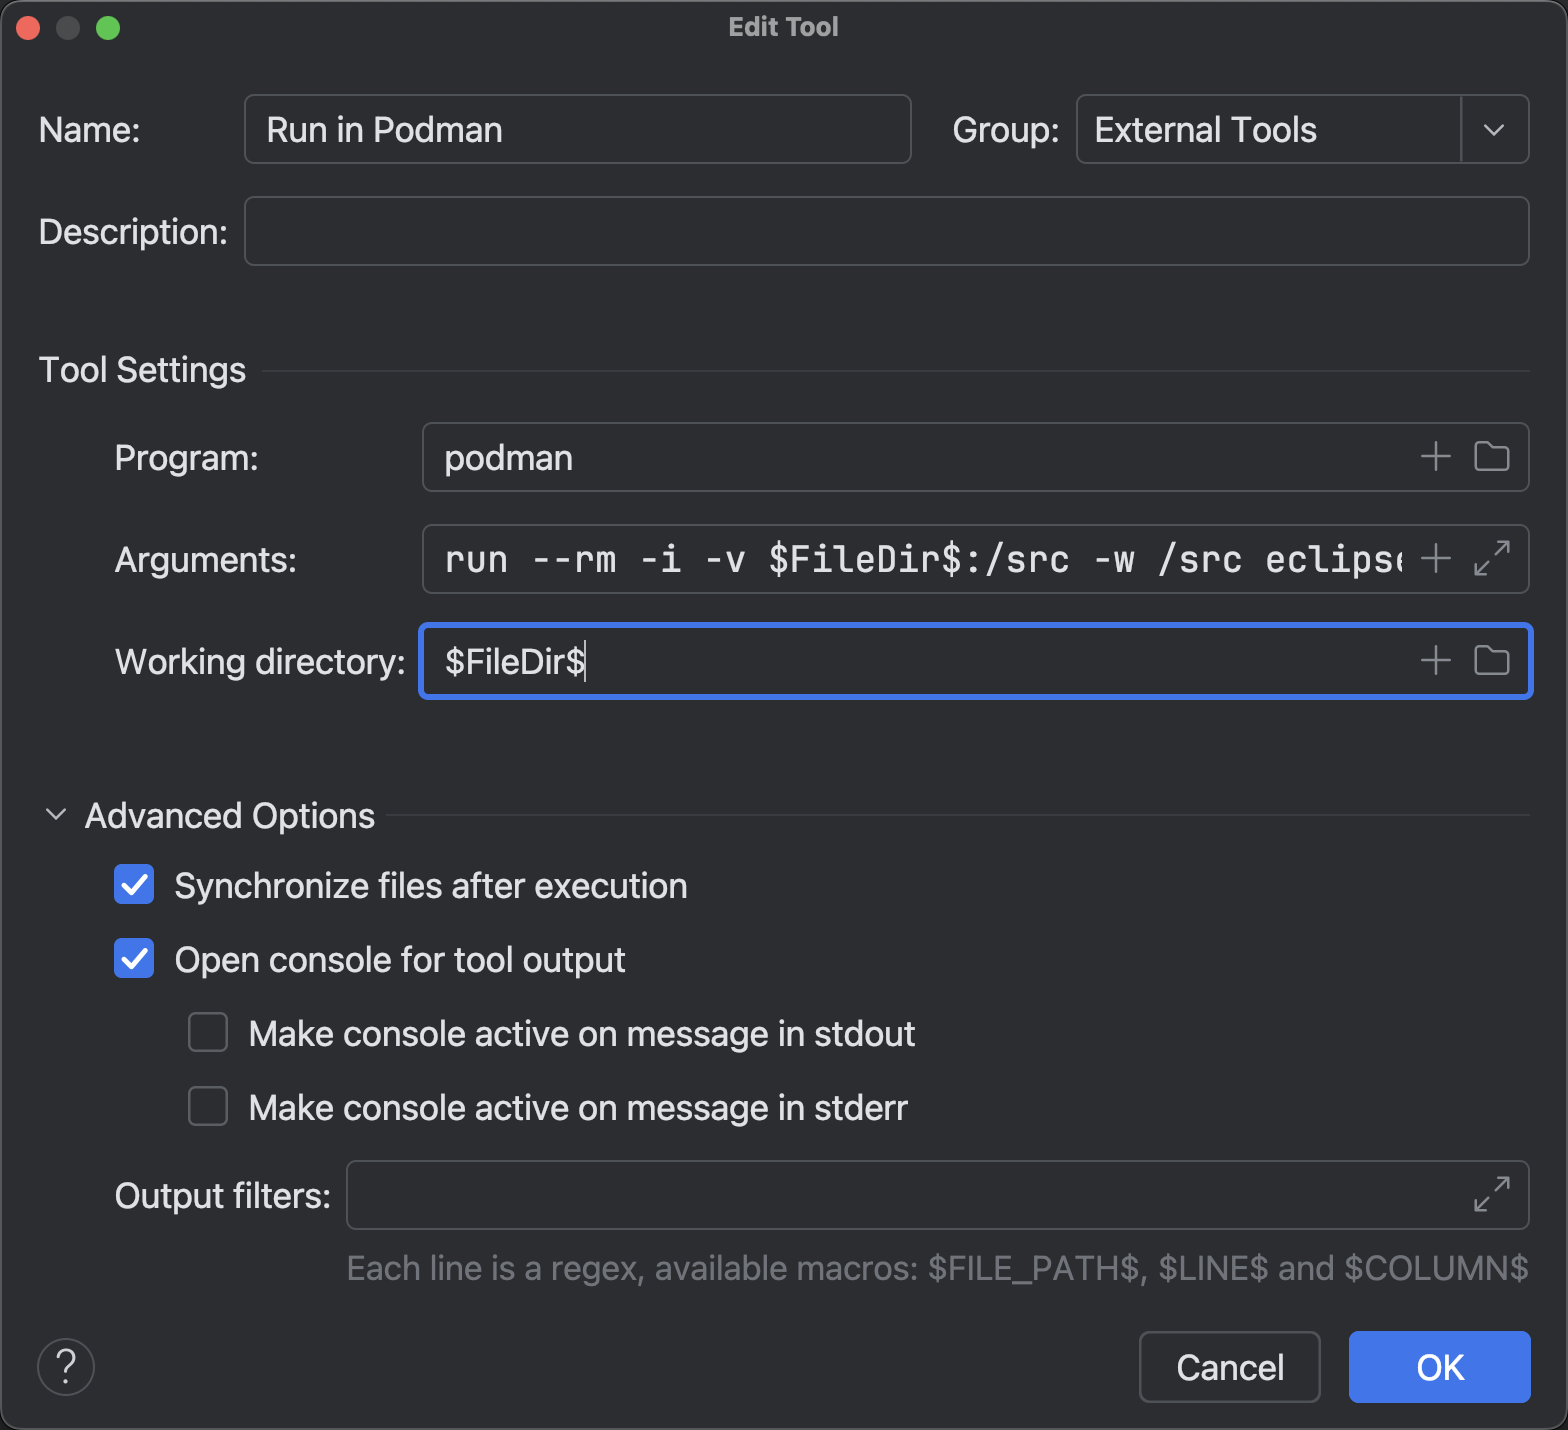
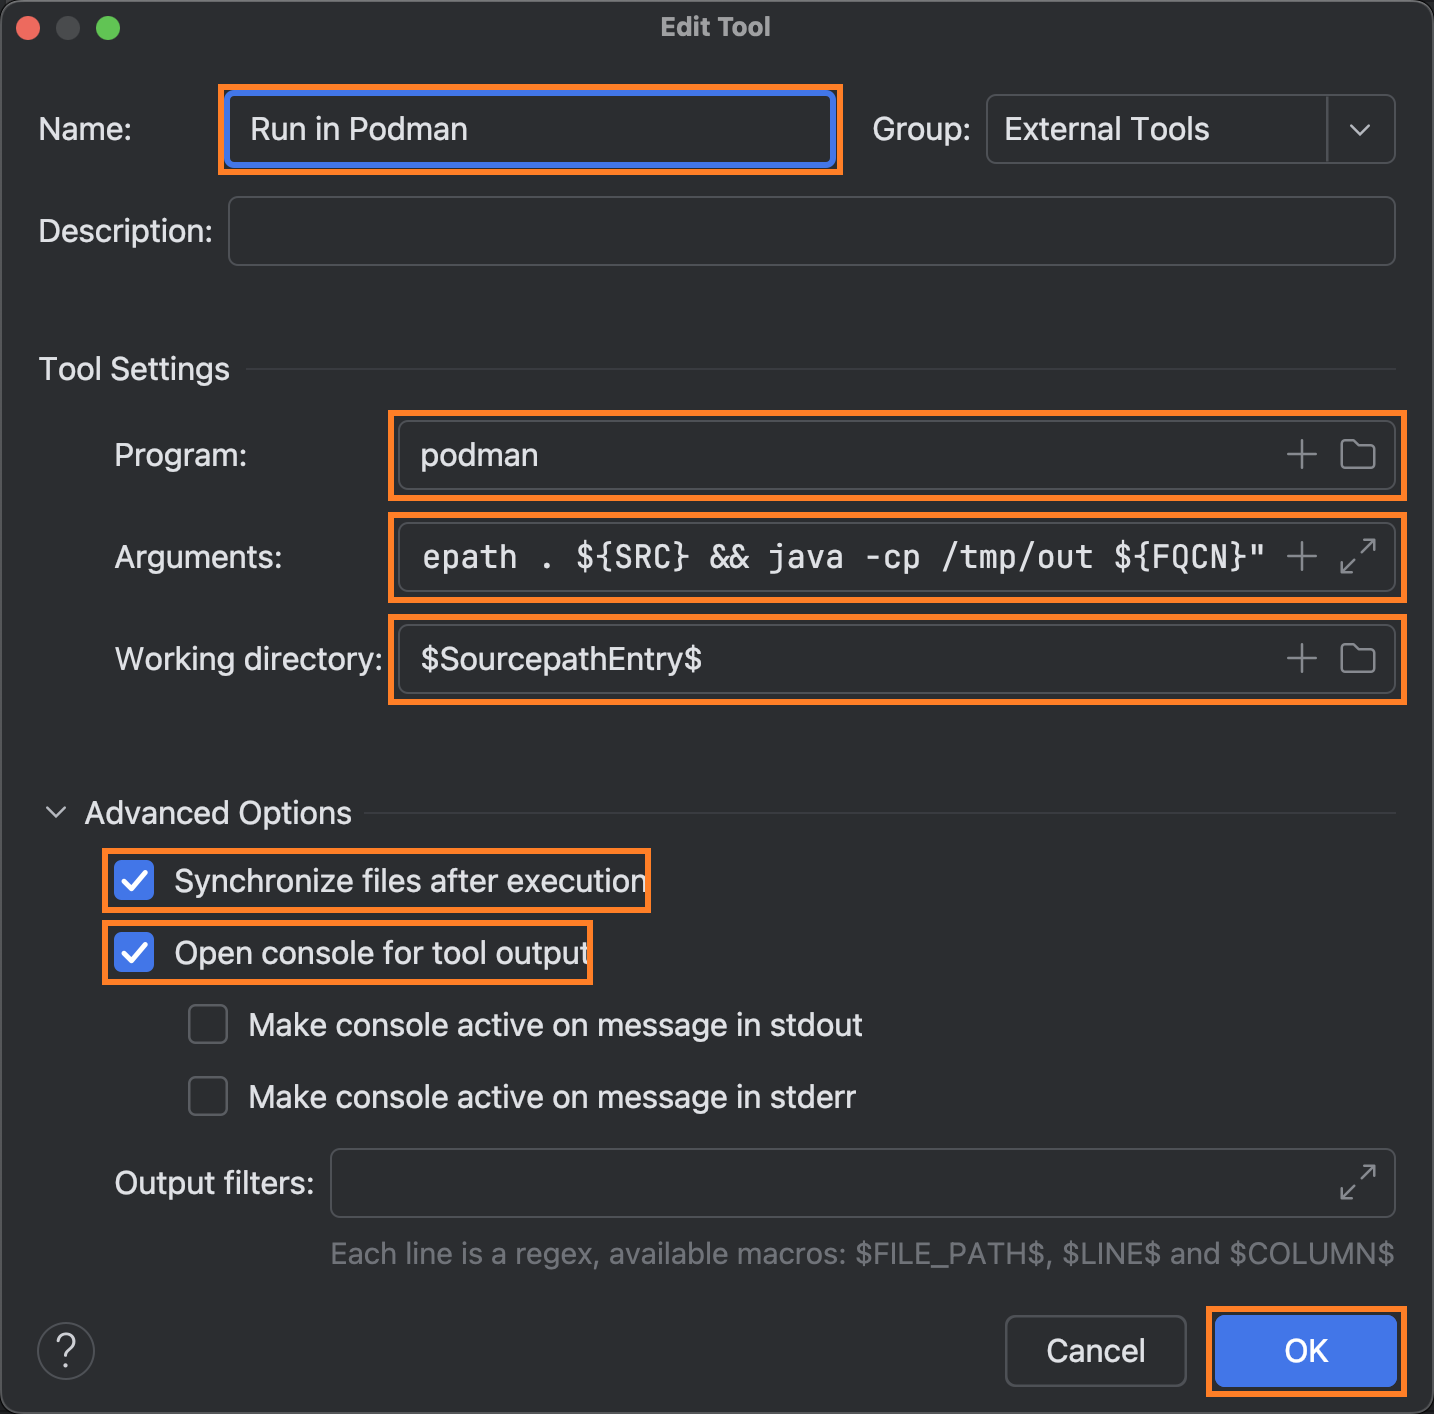
feat(java): Update External Tools podman command

diff --git a/大软3+2/Java高级程序设计进阶实验.html b/大软3+2/Java高级程序设计进阶实验.html
@@ -635,8 +635,8 @@ pre.pygments .tok-il { color: #666666 } /* Literal.Number.Integer.Long */
 <div class="title">MyDemo.java 查看程序运行结果</div>
 <div class="content">
 <pre class="pygments highlight"><code data-lang="java"><span></span><span class="tok-c1">// @edit code/testBasicSyntax/src/EnvironmentDemo.java</span>
-<span class="tok-kd">public</span><span class="tok-w"> </span><span class="tok-kd">class</span> <span class="tok-nc">MyDemo</span><span class="tok-w"> </span><span class="tok-p">{</span>
-<span class="tok-w">    </span><span class="tok-kd">public</span><span class="tok-w"> </span><span class="tok-kd">static</span><span class="tok-w"> </span><span class="tok-kt">void</span><span class="tok-w"> </span><span class="tok-nf">EnvironmentDemo</span><span class="tok-p">(</span><span class="tok-n">String</span><span class="tok-o">[]</span><span class="tok-w"> </span><span class="tok-n">args</span><span class="tok-p">)</span><span class="tok-w"> </span><span class="tok-p">{</span>
+<span class="tok-kd">public</span><span class="tok-w"> </span><span class="tok-kd">class</span> <span class="tok-nc">EnvironmentDemo</span><span class="tok-w"> </span><span class="tok-p">{</span>
+<span class="tok-w">    </span><span class="tok-kd">public</span><span class="tok-w"> </span><span class="tok-kd">static</span><span class="tok-w"> </span><span class="tok-kt">void</span><span class="tok-w"> </span><span class="tok-nf">main</span><span class="tok-p">(</span><span class="tok-n">String</span><span class="tok-o">[]</span><span class="tok-w"> </span><span class="tok-n">args</span><span class="tok-p">)</span><span class="tok-w"> </span><span class="tok-p">{</span>
 <span class="tok-w">        </span><span class="tok-n">System</span><span class="tok-p">.</span><span class="tok-na">out</span><span class="tok-p">.</span><span class="tok-na">println</span><span class="tok-p">(</span><span class="tok-s">&quot;========= 环境测试 =========&quot;</span><span class="tok-p">);</span>
 
 <span class="tok-w">        </span><span class="tok-c1">// 验证运行操作系统（如果是 Linux，说明 Podman 成功了）</span>
@@ -1146,66 +1146,65 @@ OpenJDK 64-Bit Server VM Temurin-17.0.18+8 (build 17.0.18+8, mixed mode, sharing
 <ol class="upperalpha" type="A">
 <li>
 <p>External Tool 参数设置</p>
-<table class="tableblock frame-all grid-all stretch">
-<caption class="title">请在 IDEA 的 <code>Settings</code> &#8594; <code>Tools</code> &#8594; <code>External Tools</code> 中添加以下配置：</caption>
-<colgroup>
-<col style="width: 25%;">
-<col style="width: 75%;">
-</colgroup>
-<thead>
-<tr>
-<th class="tableblock halign-left valign-top">配置项</th>
-<th class="tableblock halign-left valign-top">填写内容</th>
-</tr>
-</thead>
-<tbody>
-<tr>
-<td class="tableblock halign-left valign-top"><p class="tableblock"><strong>Name</strong></p></td>
-<td class="tableblock halign-left valign-top"><p class="tableblock"><code>Run in Podman (Auto)</code></p></td>
-</tr>
-<tr>
-<td class="tableblock halign-left valign-top"><p class="tableblock"><strong>Program</strong></p></td>
-<td class="tableblock halign-left valign-top"><p class="tableblock"><code>podman</code></p></td>
-</tr>
-<tr>
-<td class="tableblock halign-left valign-top"><p class="tableblock"><strong>Arguments</strong></p></td>
-<td class="tableblock halign-left valign-top"><p class="tableblock"><code>run --rm -i -v $FileDir$:/src -w /src eclipse-temurin:17-jdk sh -c "javac *.java &amp;&amp; java $FileNameWithoutExtension$"</code></p></td>
-</tr>
-<tr>
-<td class="tableblock halign-left valign-top"><p class="tableblock"><strong>Working directory</strong></p></td>
-<td class="tableblock halign-left valign-top"><p class="tableblock"><code>$FileDir$</code></p></td>
-</tr>
-</tbody>
-</table>
 <div class="paragraph">
-<p>命令详解</p>
+<p>请在 IDEA 的 <code>Settings</code> &#8594; <code>Tools</code> &#8594; <code>External Tools</code> 中添加以下配置：</p>
 </div>
+<div class="ulist">
+<ul>
+<li>
+<p>Program: podman</p>
+</li>
+<li>
+<p>Arguments:
+run --rm -i -v "$SourcepathEntry$":/src -w /src -e DIR="$FileDirRelativeToSourcepath$" -e NAME="$FileNameWithoutExtension$" -e FILE="$FileName$" eclipse-temurin:17-jdk bash -c "if [ x${DIR} = x ] || [ x${DIR} = x. ]; then SRC=${FILE}; FQCN=${NAME}; else SRC=${DIR}/${FILE}; S=/; P=.; FQCN=${DIR//${S}/${P}}.${NAME}; fi; mkdir -p /tmp/out &amp;&amp; javac -d /tmp/out -sourcepath . ${SRC} &amp;&amp; java -cp /tmp/out ${FQCN}"</p>
+</li>
+<li>
+<p>Working directory: $SourcepathEntry$</p>
+<div class="imageblock">
+<div class="content">
+<img src="img/external_tools_run_in_podman.png" alt="external tools run in podman" width="640">
+</div>
+</div>
+</li>
+</ul>
+</div>
+</li>
+<li>
+<p>Arguments 命令详解:</p>
 <div class="ulist">
 <ul>
 <li>
 <p><code>run --rm</code>: 容器运行结束即销毁，保持系统整洁。</p>
 </li>
 <li>
-<p><code>-i</code> 参数，如果程序需要 Scanner 输入数据，控制台也能支持交互。</p>
+<p><code>-i</code>: 支持交互模式，如果程序中使用 <code>Scanner</code> 等读取输入，控制台可正常交互。</p>
 </li>
 <li>
-<p><code>-v $FileDir$:/src</code>: 将 IDEA 当前打开文件所在的目录映射到容器 <code>/src</code>。</p>
+<p><code>-v "$SourcepathEntry$":/src</code>: <strong>核心逻辑</strong>。将 IDEA 的源码根目录映射到容器 <code>/src</code>，确保 <code>javac</code> 能根据包名（Package）正确索引依赖类。</p>
 </li>
 <li>
-<p><code>-w /src</code>: 指定容器内的工作目录，确保 <code>javac</code> 能找到源码。</p>
+<p><code>-w /src</code>: 设置容器工作目录为源码根目录。</p>
 </li>
 <li>
-<p><code>sh -c</code>: 启动容器内的 Shell 以支持 <code>&amp;&amp;</code> 逻辑。</p>
+<p><code>-e DIR/NAME/FILE</code>: 通过环境变量将 IDEA 宏（相对路径、文件名、无后缀名）传入容器，供后续 Shell 脚本调用。</p>
 </li>
 <li>
-<p><code>javac *.java</code>: <strong>万能编译</strong>，自动处理目录下所有 Java 类的依赖。</p>
+<p><code>bash -c "&#8230;&#8203;"</code>: 在容器内启动 Bash 解释器以执行复杂的条件判断逻辑：</p>
+<div class="ulist">
+<ul>
+<li>
+<p><strong>包路径自动化</strong>: 脚本会自动检测 <code>DIR</code> 是否为空。若不为空，则利用 <code>${DIR//${S}/${P}}</code> 语法将路径分隔符 <code>/</code> 替换为 <code>.</code>，从而动态构建出正确的<strong>全限定类名 (FQCN)</strong>。</p>
 </li>
 <li>
-<p><code>java $FileNameWithoutExtension$</code>: 动态获取当前文件名（不含后缀）并运行。</p>
-<div class="imageblock">
-<div class="content">
-<img src="img/external_tools_run_in_podman.png" alt="external tools run in podman" width="640">
-</div>
+<p><strong>编译隔离</strong>: <code>mkdir -p /tmp/out</code> 在容器内存中创建临时目录。</p>
+</li>
+<li>
+<p><strong>精准编译</strong>: <code>javac -d /tmp/out</code> 将编译产物输出到临时目录，避免在宿主机源码文件夹下生成 <code>.class</code> 文件，保持代码目录纯净。</p>
+</li>
+<li>
+<p><strong>动态运行</strong>: <code>java -cp /tmp/out ${FQCN}</code> 自动指向编译输出目录并运行生成的类。</p>
+</li>
+</ul>
 </div>
 </li>
 </ul>
@@ -1236,8 +1235,8 @@ OpenJDK 64-Bit Server VM Temurin-17.0.18+8 (build 17.0.18+8, mixed mode, sharing
 <div class="title">查看程序运行结果，即可验证是否在 podman 中运行成功。</div>
 <div class="content">
 <pre class="pygments highlight"><code data-lang="java"><span></span><span class="tok-c1">// @edit code/testBasicSyntax/src/EnvironmentDemo.java</span>
-<span class="tok-kd">public</span><span class="tok-w"> </span><span class="tok-kd">class</span> <span class="tok-nc">MyDemo</span><span class="tok-w"> </span><span class="tok-p">{</span>
-<span class="tok-w">    </span><span class="tok-kd">public</span><span class="tok-w"> </span><span class="tok-kd">static</span><span class="tok-w"> </span><span class="tok-kt">void</span><span class="tok-w"> </span><span class="tok-nf">EnvironmentDemo</span><span class="tok-p">(</span><span class="tok-n">String</span><span class="tok-o">[]</span><span class="tok-w"> </span><span class="tok-n">args</span><span class="tok-p">)</span><span class="tok-w"> </span><span class="tok-p">{</span>
+<span class="tok-kd">public</span><span class="tok-w"> </span><span class="tok-kd">class</span> <span class="tok-nc">EnvironmentDemo</span><span class="tok-w"> </span><span class="tok-p">{</span>
+<span class="tok-w">    </span><span class="tok-kd">public</span><span class="tok-w"> </span><span class="tok-kd">static</span><span class="tok-w"> </span><span class="tok-kt">void</span><span class="tok-w"> </span><span class="tok-nf">main</span><span class="tok-p">(</span><span class="tok-n">String</span><span class="tok-o">[]</span><span class="tok-w"> </span><span class="tok-n">args</span><span class="tok-p">)</span><span class="tok-w"> </span><span class="tok-p">{</span>
 <span class="tok-w">        </span><span class="tok-n">System</span><span class="tok-p">.</span><span class="tok-na">out</span><span class="tok-p">.</span><span class="tok-na">println</span><span class="tok-p">(</span><span class="tok-s">&quot;========= 环境测试 =========&quot;</span><span class="tok-p">);</span>
 
 <span class="tok-w">        </span><span class="tok-c1">// 验证运行操作系统（如果是 Linux，说明 Podman 成功了）</span>
@@ -1270,7 +1269,7 @@ OpenJDK 64-Bit Server VM Temurin-17.0.18+8 (build 17.0.18+8, mixed mode, sharing
 当前运行操作系统: Linux
 当前 JDK 版本: 17.0.18
 当前容器用户: root
-✅ 成功！代码正在 Podman 容器内运行。
+成功！代码正在 Podman 容器内运行。
 ==================================</pre>
 </div>
 </div>
@@ -1596,7 +1595,7 @@ OpenJDK 64-Bit Server VM Temurin-17.0.18+8 (build 17.0.18+8, mixed mode, sharing
 </div>
 <div id="footer">
 <div id="footer-text">
-Last updated 2026-03-04 11:35:00 +0800
+Last updated 2026-03-05 18:10:50 +0800
 </div>
 </div>
 <script type="text/x-mathjax-config">

diff --git a/大软3+2/Java高级程序设计进阶.html b/大软3+2/Java高级程序设计进阶.html
@@ -591,7 +591,8 @@ pre.pygments .tok-il { color: #666666 } /* Literal.Number.Integer.Long */
 <li><a href="#_继承与多态_父子卡片与读卡器逻辑">继承与多态 —— “父子卡片”与“读卡器逻辑”</a></li>
 <li><a href="#_抽象类_禁止基础门卡类创建新卡对象因为没有这种卡">抽象类 --- 禁止基础门卡类创建新卡对象（因为没有这种卡）</a></li>
 <li><a href="#_接口设计_功能准入协议">接口设计 —— “功能准入协议”</a></li>
-<li><a href="#_包管理与访问权限_大楼的房间划分与门锁">包管理与访问权限 —— “大楼的房间划分与门锁”</a></li>
+<li><a href="#_包管理_大楼的房间划分">包管理 —— “大楼的房间划分”</a></li>
+<li><a href="#_访问权限_房间门锁">访问权限 —— “房间门锁”</a></li>
 <li><a href="#_面向对象基础小结">面向对象基础小结</a></li>
 </ul>
 </li>
@@ -2365,7 +2366,7 @@ pre.pygments .tok-il { color: #666666 } /* Literal.Number.Integer.Long */
 </div>
 </div>
 <div class="sect2">
-<h3 id="_包管理与访问权限_大楼的房间划分与门锁">包管理与访问权限 —— “大楼的房间划分与门锁”</h3>
+<h3 id="_包管理_大楼的房间划分">包管理 —— “大楼的房间划分”</h3>
 <div class="olist upperalpha">
 <ol class="upperalpha" type="A">
 <li>
@@ -2387,7 +2388,7 @@ pre.pygments .tok-il { color: #666666 } /* Literal.Number.Integer.Long */
 <li>
 <p>项目结构标准划分（包管理）</p>
 <div class="paragraph">
-<p>在企业级开发中，通常按照功能来建包（推荐使用倒置域名命名法）。为了让门禁系统看起来像一个真正的工程，咱们的目录应该长这样：</p>
+<p>在企业级开发中，通常按照功能来建包（推荐使用倒置域名命名法）。为了让门禁系统看起来像一个真正的工程，目录应该长这样：</p>
 </div>
 <div class="listingblock">
 <div class="content">
@@ -2399,6 +2400,44 @@ pre.pygments .tok-il { color: #666666 } /* Literal.Number.Integer.Long */
 </div>
 </div>
 </li>
+<li>
+<p>小结</p>
+<div class="ulist">
+<ul>
+<li>
+<p><strong>规范第一</strong>：从今天起，告别“默认包（Default Package）”。写任何类之前，先建好 <code>package</code>。</p>
+</li>
+</ul>
+</div>
+</li>
+</ol>
+</div>
+<div class="sidebarblock">
+<div class="content">
+<div class="title">IDEA External Tools 让 podman 运行 java 代码</div>
+<div class="ulist">
+<ul>
+<li>
+<p>Program:
+podman</p>
+</li>
+<li>
+<p>Arguments:
+run --rm -i -v "$SourcepathEntry$":/src -w /src -e DIR="$FileDirRelativeToSourcepath$" -e NAME="$FileNameWithoutExtension$" -e FILE="$FileName$" eclipse-temurin:17-jdk bash -c "if [ x${DIR} = x ] || [ x${DIR} = x. ]; then SRC=${FILE}; FQCN=${NAME}; else SRC=${DIR}/${FILE}; S=/; P=.; FQCN=${DIR//${S}/${P}}.${NAME}; fi; mkdir -p /tmp/out &amp;&amp; javac -d /tmp/out -sourcepath . ${SRC} &amp;&amp; java -cp /tmp/out ${FQCN}"</p>
+</li>
+<li>
+<p>Working directory:
+$SourcepathEntry$</p>
+</li>
+</ul>
+</div>
+</div>
+</div>
+</div>
+<div class="sect2">
+<h3 id="_访问权限_房间门锁">访问权限 —— “房间门锁”</h3>
+<div class="olist upperalpha">
+<ol class="upperalpha" type="A">
 <li>
 <p>访问权限（门锁的级别）</p>
 <div class="paragraph">
@@ -2459,9 +2498,6 @@ pre.pygments .tok-il { color: #666666 } /* Literal.Number.Integer.Long */
 <p>小结</p>
 <div class="ulist">
 <ul>
-<li>
-<p><strong>规范第一</strong>：从今天起，告别“默认包（Default Package）”。写任何类之前，先建好 <code>package</code>。</p>
-</li>
 <li>
 <p><strong>权限铁律</strong>：提供给别人调用的类和方法，尽量用 <code>public</code>；自己内部保存的数据属性，死死锁住用 <code>private</code>，然后开一扇带安检的窗口（<code>public</code> 的 Getter/Setter）。</p>
 </li>
@@ -3858,7 +3894,7 @@ pre.pygments .tok-il { color: #666666 } /* Literal.Number.Integer.Long */
 </div>
 <div id="footer">
 <div id="footer-text">
-Last updated 2026-03-05 09:19:27 +0800
+Last updated 2026-03-05 12:06:15 +0800
 </div>
 </div>
 <script type="text/x-mathjax-config">
